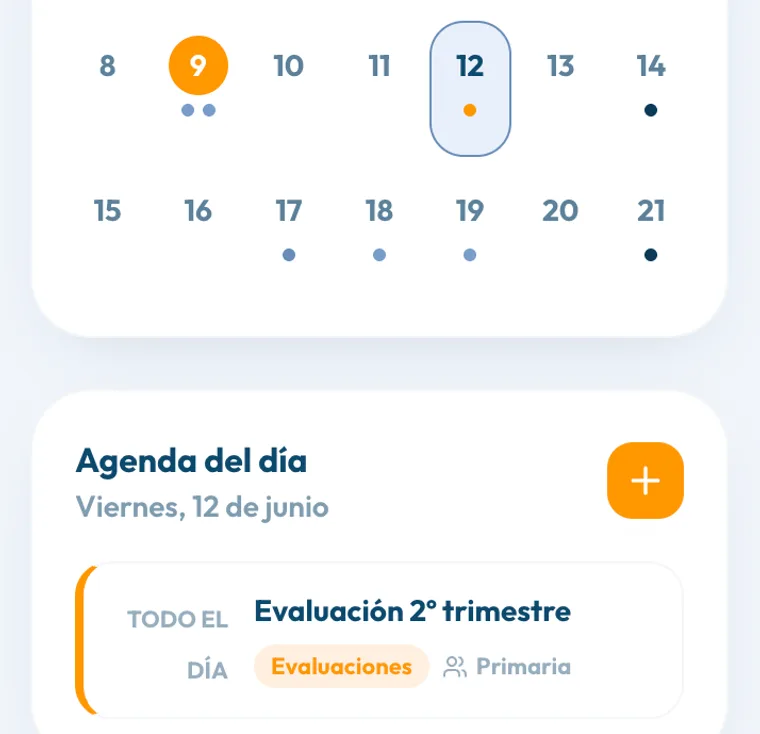
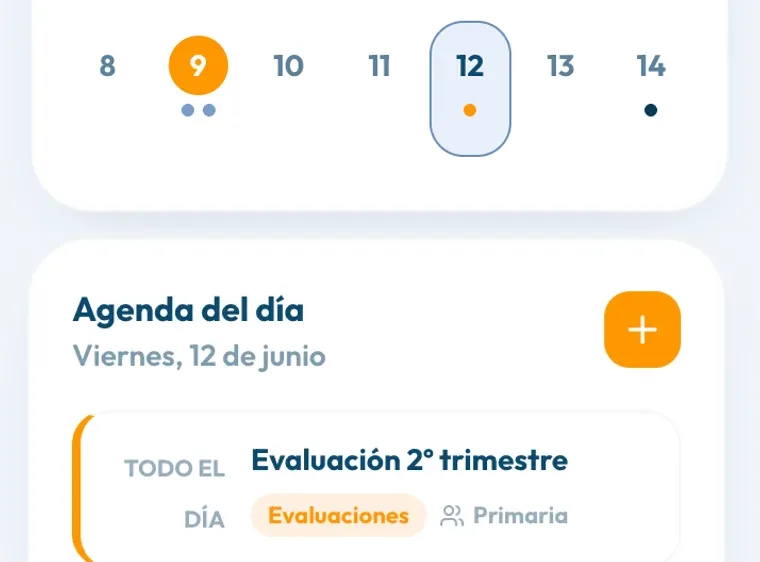
Cierra las 9 cards: transporte recortada, calendario y Pagos con captura real
- Reemplaza 3-calendario (eventos del día visibles) y 7-transporte (ícono del
  bus visible en el mapa) con los recortes nuevos.
- Pagos: su card de la home ahora usa la captura real (9-pagos.webp); la
  grilla 3x3 queda con las 9 imágenes.

diff --git a/app/lab/home/page.tsx b/app/lab/home/page.tsx
@@ -69,7 +69,7 @@ const FEATURES: { img?: string; icon?: string; title: string; text: string }[] =
   { img: "/features/6-documentos.webp", title: "Documentos", text: "Circulares, reglamentos y archivos del colegio, ordenados y a un clic." },
   { img: "/features/7-transporte.webp", title: "Transporte", text: "Sigue el transporte escolar en el mapa, con avisos de subida y bajada." },
   { img: "/features/8-traduccion.webp", title: "Traducción", text: "Cada familia lee los avisos en su idioma, con un solo toque." },
-  { icon: "CreditCard", title: "Pagos", text: "El comprobante de la cuota de cada mes, y las familias suben su pago." },
+  { img: "/features/9-pagos.webp", title: "Pagos", text: "El comprobante de la cuota de cada mes, y las familias suben su pago." },
 ];
 const PLANES = [
   { name: "Demo", price: "$0", per: "para probar", feats: ["Hasta 1 salón", "Novedades y calendario", "Soporte por correo"] },